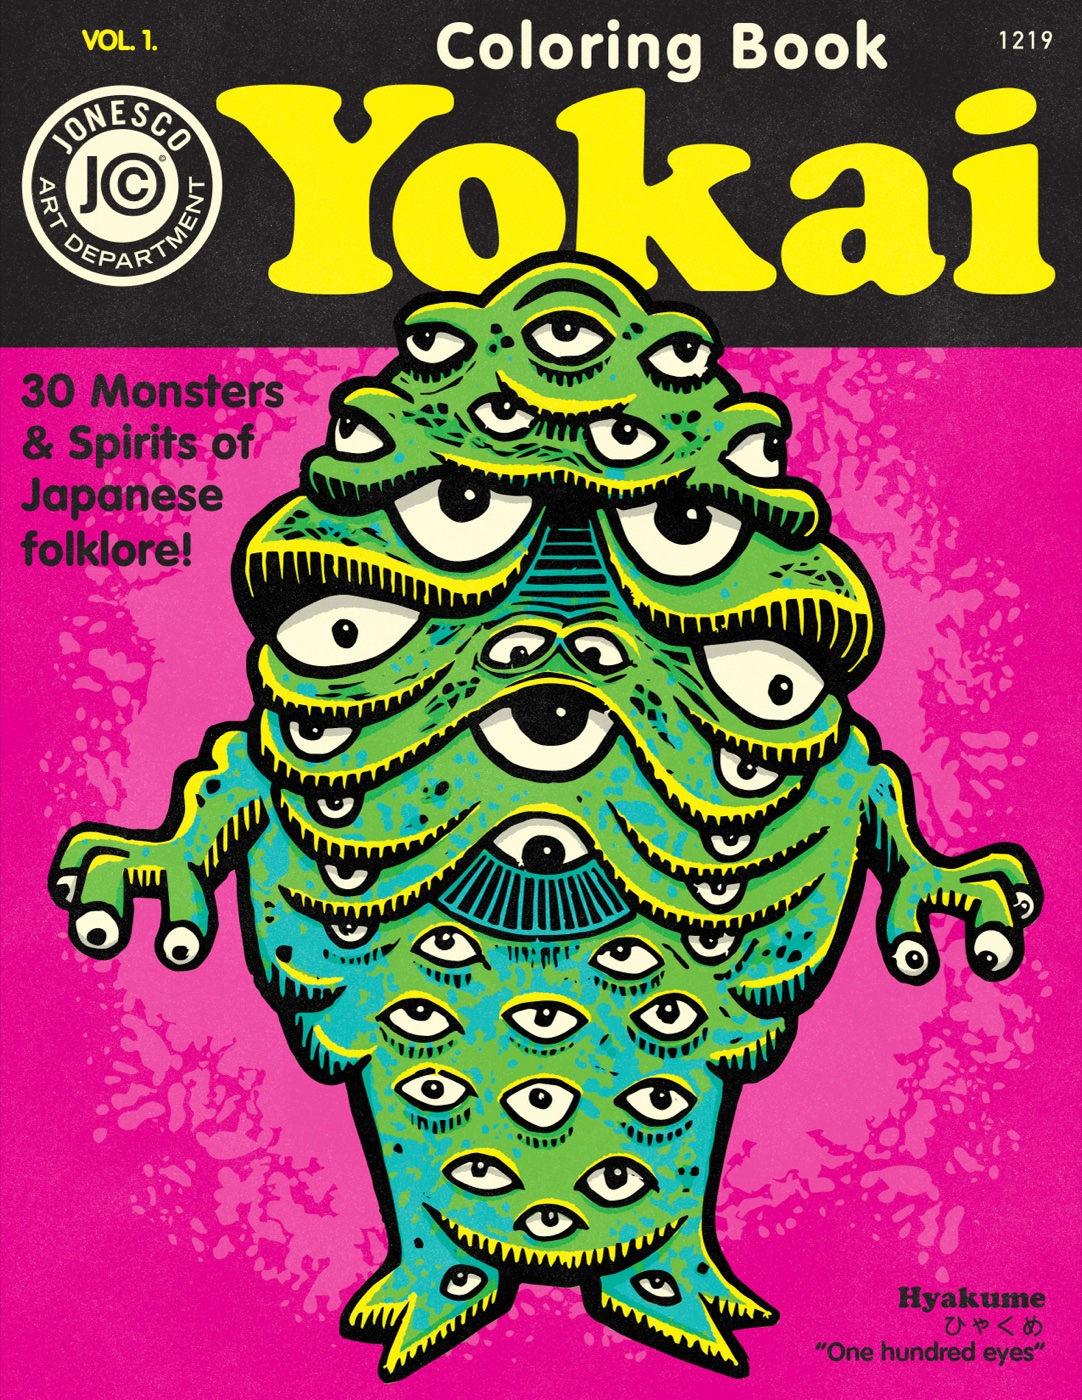
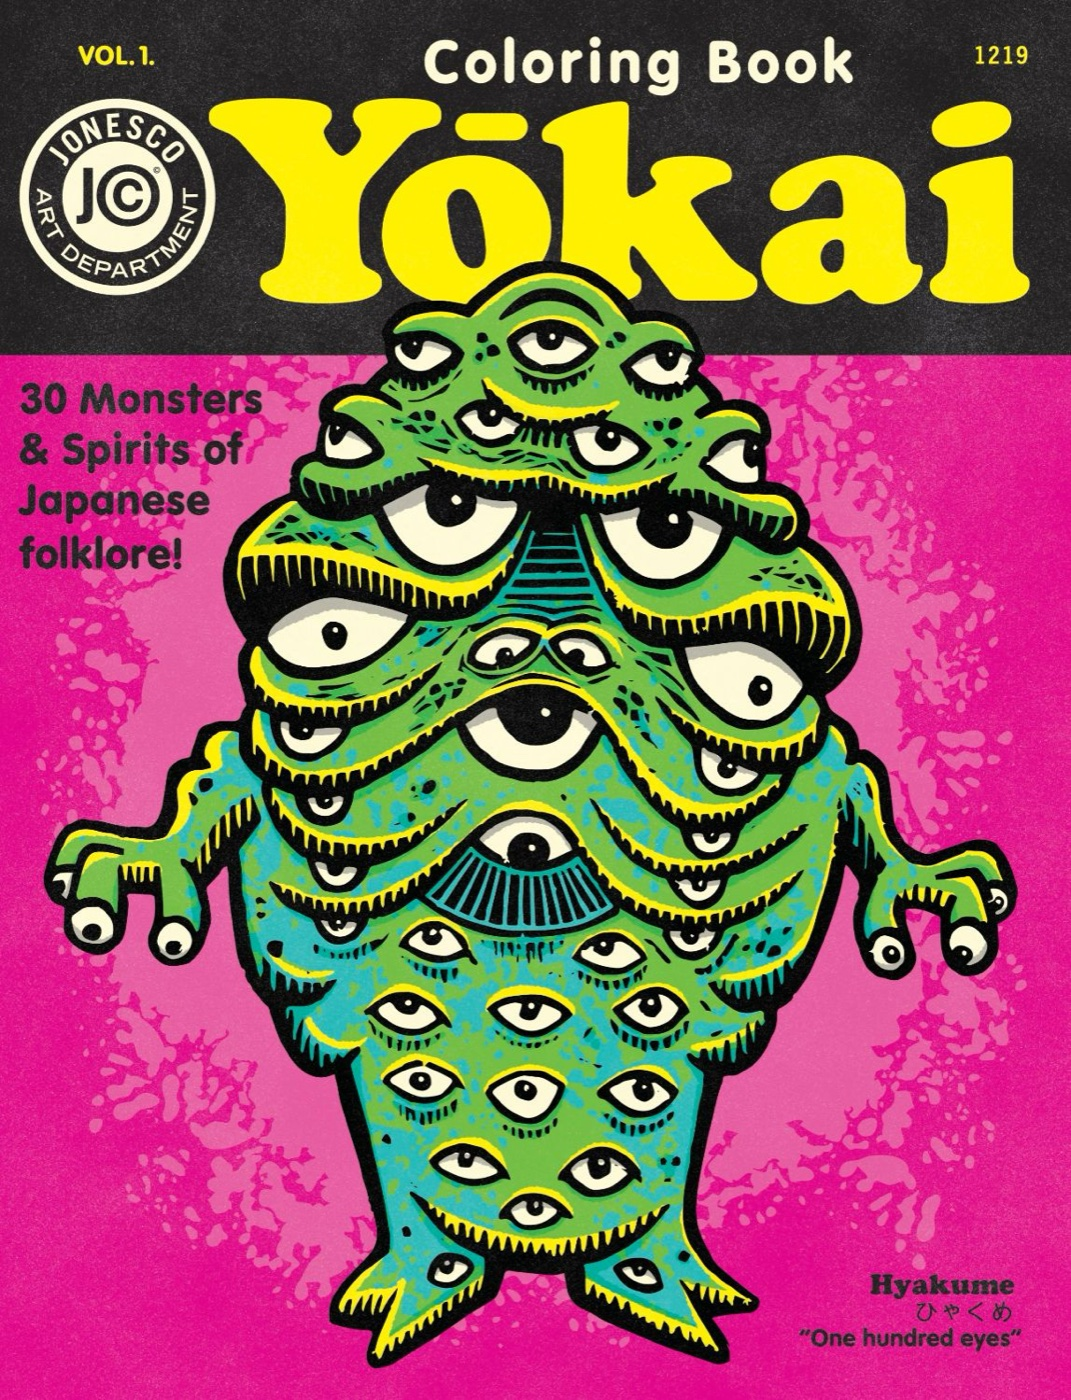
Hero: updated cover with Yōkai macron
Claude-Session: https://claude.ai/code/session_01GGV4DmCADm3K4Hin4MQYZA

diff --git a/index.html b/index.html
@@ -211,7 +211,7 @@
           </div>
         </div>
         <div class="hero-art">
-          <img src="images/cover-full.jpg" width="1082" height="1400" alt="Yōkai Coloring Book Vol. 1 cover: Hyakume, a green many-eyed monster on a hot pink background">
+          <img src="images/cover-full.jpg" width="1071" height="1400" alt="Yōkai Coloring Book Vol. 1 cover: Hyakume, a green many-eyed monster on a hot pink background">
         </div>
       </div>
     </div>
